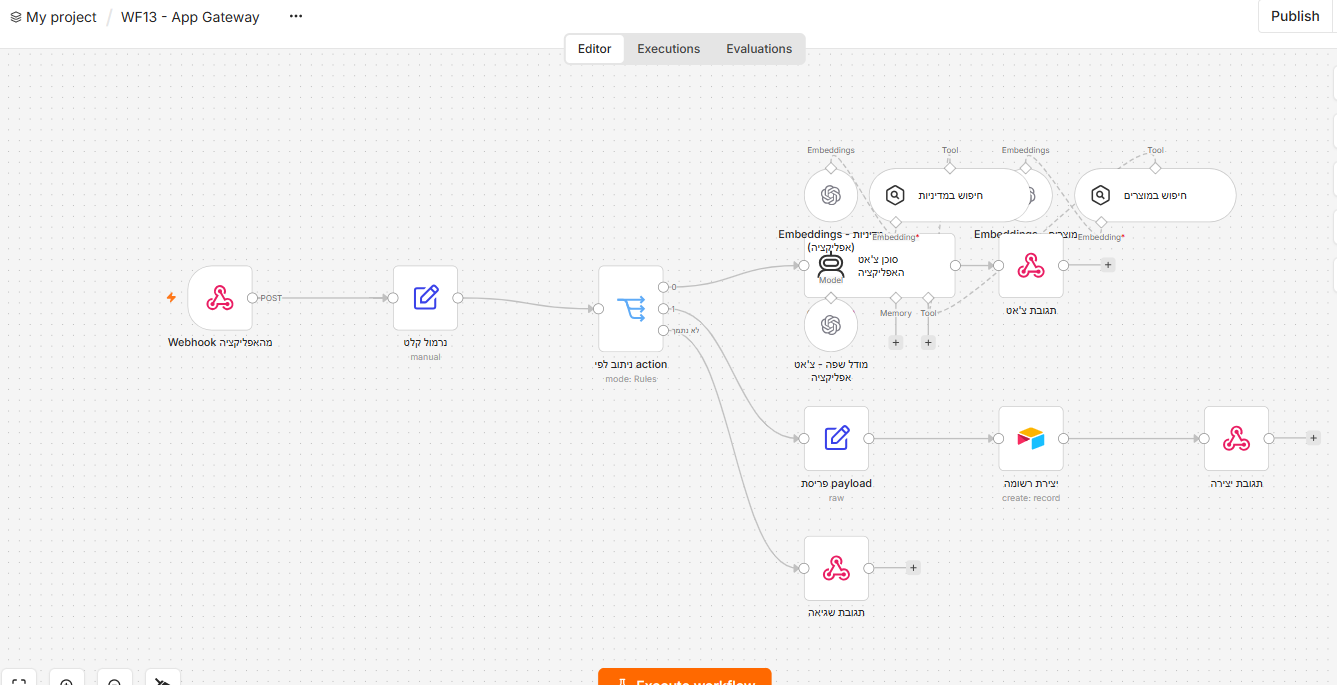
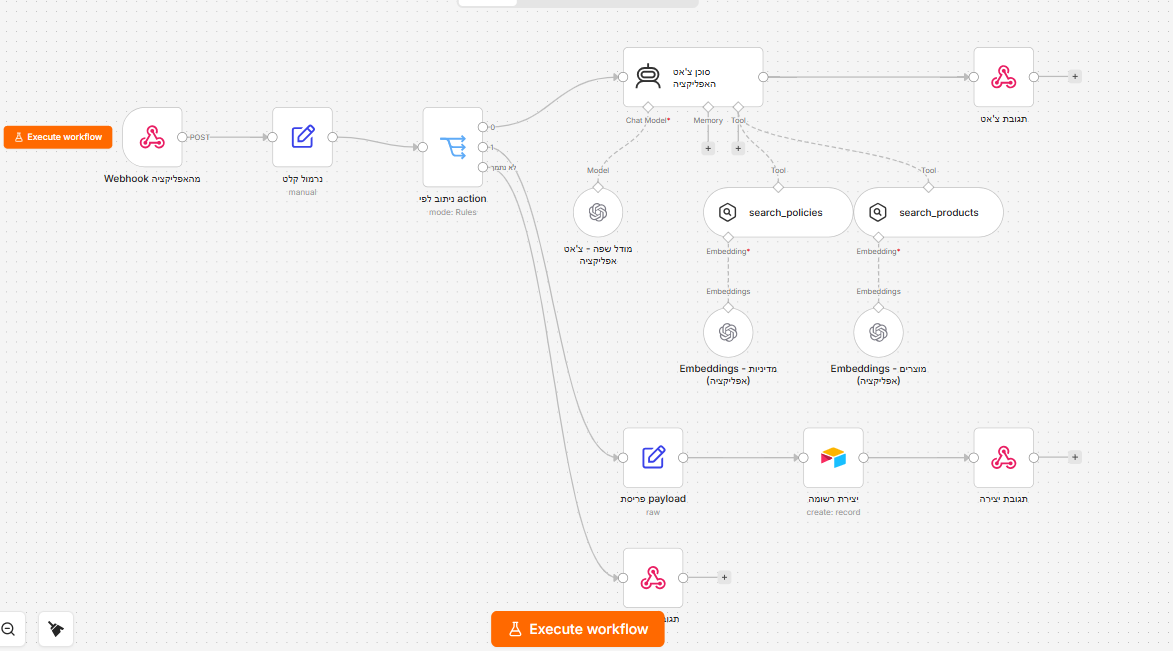
Add customer bot screenshots and refresh WF13
- Telegram doc: two screenshots of the customer bot answering a policy
  question and a product price question
- WF13 screenshot shows the renamed search_policies / search_products
  tools and the tidied layout; workflow map mentions the shared tools

diff --git a/docs/02-telegram-bots.md b/docs/02-telegram-bots.md
@@ -7,6 +7,16 @@ The project uses **two separate bots**. Telegram lets only one webhook listen to
 | Owner bot | Telegram account 6 | WF9 | Manager agent — invoices, receipts, tasks, policy/tax questions, creating documents. Owner's chat ID only. |
 | Customer bot (`GuyCGCustomerServiceBot`) | Telegram account 4 | WF5 | Customer service — RAG over policies and products. |
 
+## The customer bot in action
+
+A policy question — the agent calls `search_policies` and answers from the returns policy (WF6 corpus):
+
+![Customer bot: returns policy](screenshots/telegram-customer-returns.png)
+
+A product question — the agent calls `search_products` and answers with the product's SKU, price and stock status from Airtable (WF7):
+
+![Customer bot: product price](screenshots/telegram-customer-price.png)
+
 ## Create both bots
 
 1. Open a chat with **@BotFather** on Telegram.

diff --git a/docs/04-workflows.md b/docs/04-workflows.md
@@ -63,7 +63,7 @@ Owner-only Telegram bot. The agent has memory, the policies knowledge base, and 
 ![WF9](screenshots/wf9-manager-agent.png)
 
 ### WF13 — App Gateway
-One webhook for the admin app: `chat` goes to a RAG agent, `create` writes a record to the requested table, anything else returns an error.
+One webhook for the admin app: `chat` goes to a RAG agent with the same `search_policies` / `search_products` tools as WF5, `create` writes a record to the requested table, anything else returns an error.
 
 ![WF13](screenshots/wf13-app-gateway.png)
 
